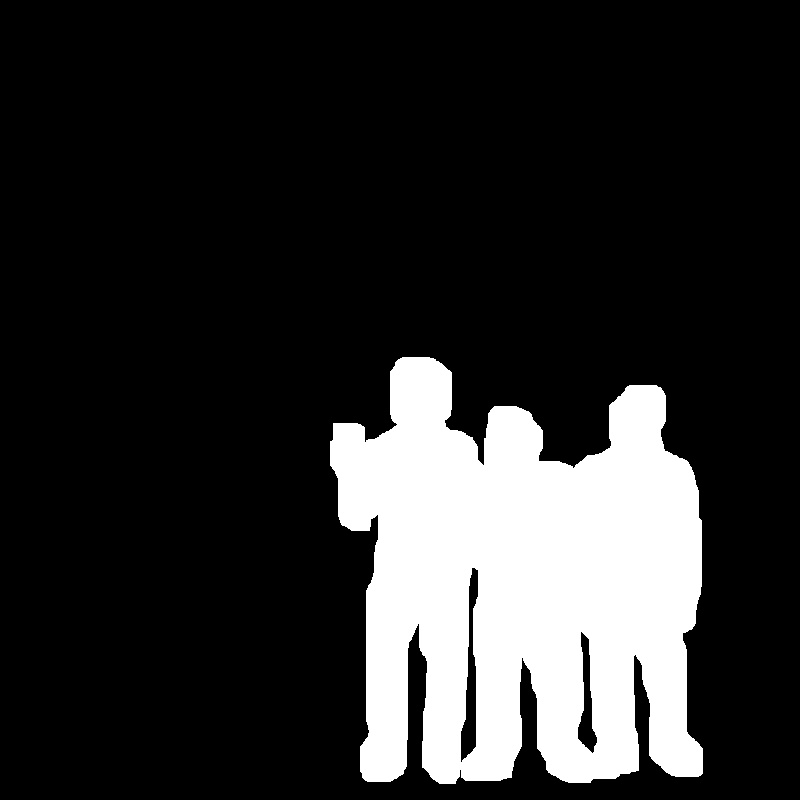
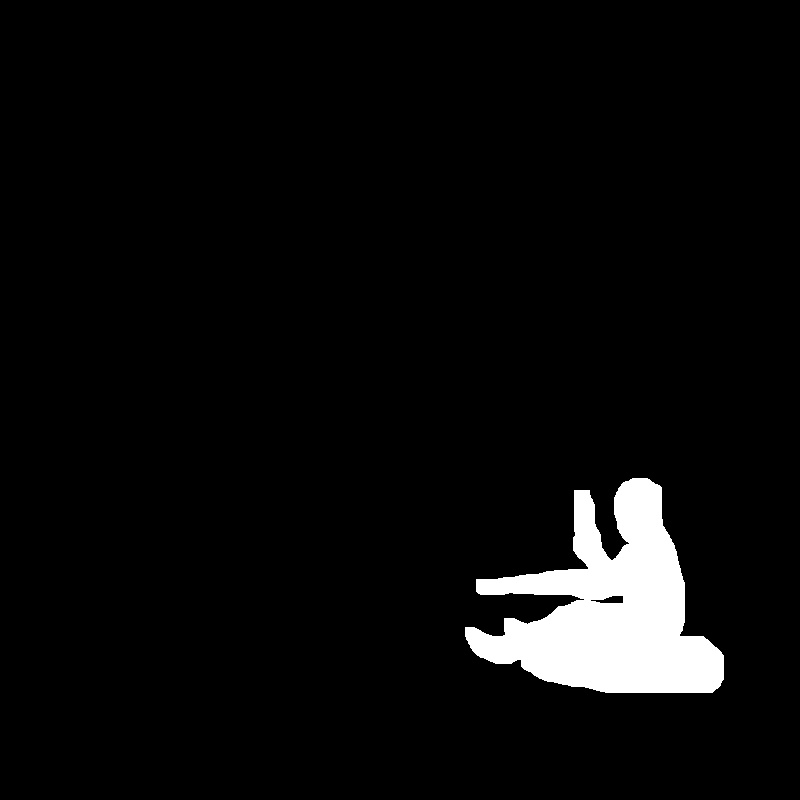
test

Changed region(s): [[0.4062, 0.4375, 0.9062, 1.0], [0.75, 0.75, 0.7812, 0.7812]]

diff --git a/image_cutter.py b/image_cutter.py
@@ -24,7 +24,7 @@ style_img = cv2.imread('data/style.jpg')
 style_img = cv2.resize(style_img, (800, 800))
 
 target_img = cv2.imread('data/1.jpg')
-target_img = imutils.resize(target_img, width=1200)[100:,100:]
+target_img = imutils.resize(target_img, width=800)[50:,0:]
 
 cv2.namedWindow('test')
 cv2.setMouseCallback('test', onmouse)
@@ -36,7 +36,7 @@ cv2.destroyAllWindows()
 mask = np.zeros(target_img.shape)
 cv2.drawContours(mask, [np.array(points)], -1, (0, 255, 0), -1)
 
-scale = 1
+scale = 0.5
 mask = cv2.resize(mask, (int(mask.shape[1] * scale), int(mask.shape[0] * scale)))
 target_img = cv2.resize(target_img, (int(target_img.shape[1] * scale), int(target_img.shape[0] * scale)))
 
@@ -57,7 +57,7 @@ pickle.dump(obj, open('obj.pkl', 'wb'), pickle.HIGHEST_PROTOCOL)
 # Create style
 cv2.imwrite('data/style.jpg', style_img)
 
-tx, ty = 0, 210
+tx, ty = 380, 350
 # Create naive
 naive = style_img.copy()
 for (i,j) in obj:
